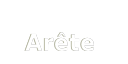
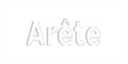
nettoyage de textures.

Changed region(s): [[0.1875, 0.2812, 0.7812, 0.8125], [0.5, 0.7812, 0.5312, 0.8125]]

diff --git a/fr/legbt/sections/Button3D.java b/fr/legbt/sections/Button3D.java
@@ -55,8 +55,6 @@ public class Button3D implements MouseListener,MouseMotionListener{
 
 	private void traceBonus(GL2 gl, int activeview){
 		getTextBonus();
-		float	a= 0.704125f;
-		float	b= 0.9375f;
 		if(activeview<4){
 			if(instance.isBonemode()){
 				if(bonus==1){
@@ -75,11 +73,11 @@ public class Button3D implements MouseListener,MouseMotionListener{
 			gl.glColor4f(1f,1f,1f,1f);
 			gl.glTexCoord2f(0f,0f);
 			gl.glVertex3f(0.575f,0.875f,0);
-			gl.glTexCoord2f(b,0f);
+			gl.glTexCoord2f(1f,0f);
 			gl.glVertex3f(0.7625f,0.875f,0);
-			gl.glTexCoord2f(b,a);
+			gl.glTexCoord2f(1f,1f);
 			gl.glVertex3f(0.7625f,1f,0);
-			gl.glTexCoord2f(0f,a);
+			gl.glTexCoord2f(0f,1f);
 			gl.glVertex3f(0.575f,1f,0);
 			gl.glEnd();
 			instance.getTextures().unbind(gl);
@@ -89,8 +87,6 @@ public class Button3D implements MouseListener,MouseMotionListener{
 
 
 	private void tracePrefs(GL2 gl){
-		float	a= 0.704125f;
-		float	b= 0.9375f;
 		if(instance.isBonemode()){
 			instance.getTextures().bind(gl,202);
 		}else{
@@ -101,11 +97,11 @@ public class Button3D implements MouseListener,MouseMotionListener{
 		gl.glColor4f(1f,1f,1f,1f);
 		gl.glTexCoord2f(0f,0f);
 		gl.glVertex3f(0.8125f,0.875f,0);
-		gl.glTexCoord2f(b,0f);
+		gl.glTexCoord2f(1f,0f);
 		gl.glVertex3f(1f,0.875f,0);
-		gl.glTexCoord2f(b,a);
+		gl.glTexCoord2f(1f,1f);
 		gl.glVertex3f(1f,1f,0);
-		gl.glTexCoord2f(0f,a);
+		gl.glTexCoord2f(0f,1f);
 		gl.glVertex3f(0.8125f,1f,0);
 		gl.glEnd();
 		instance.getTextures().unbind(gl);
